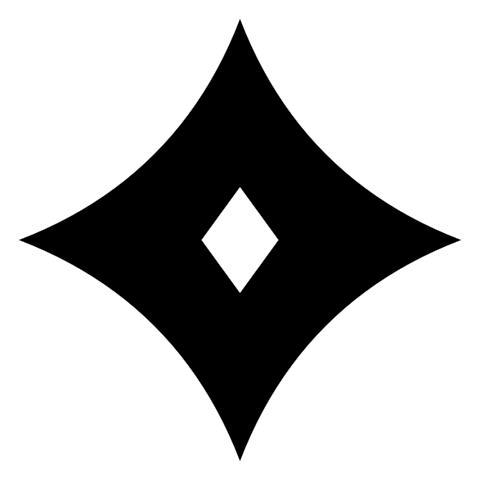
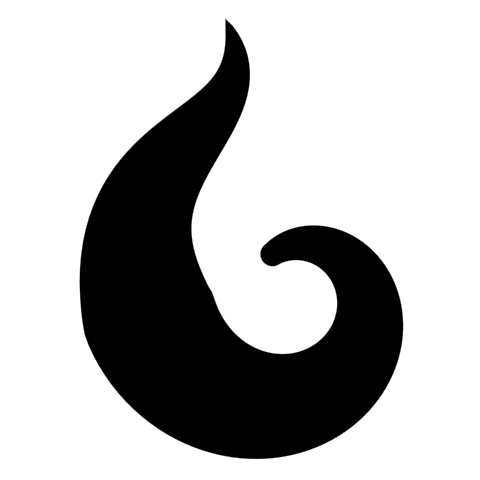
Aura: il vortice e la scia, dal segno di Jalhalla capovolto
Bru, su una foto di Jalhalla (The Wind Waker): «vedi quel logo a spirale
sulla pancia di jalhalla? se capovolto sarebbe perfetto per aura, ma va
perfezionato e fatto simile ai nostri».

L'Aura adesso è un ricciolo con la coda, ridisegnato da capo e non
ricalcato: un tratto solo che si avvolge in basso e sale a punta, come una
fiamma di spirito (lo hitodama giapponese). Le due figure sono il vortice
e la scia.

ricciolo() in IconeStatistiche:
- la linea di mezzo è la coda più una spirale logaritmica. La coda è una
  cubica che arriva nella direzione in cui la spirale parte: senza questo,
  all'attacco restava un gomito;
- lo spessore cresce lungo la coda fino a 28 su 100, poi cala fino a 5;
- il tratto finisce tondo, nel verso delle altre figure.

Le prove fatte:
- con la coda dritta e la punta a destra sembrava un «6»: ora la coda sale
  a S e la punta piega a sinistra, come la cima di una fiamma;
- col rombo dell'emblema nell'occhio: a 16 pixel è un puntino;
- con più giri: da piccola si chiude in un anello.
Resta la prima, la più vicina al segno. Peso -6% dalla media (alla prima
misura era -30%: ingrandita e ingrossata).

La prova delle icone regge come prima: i dieci sabotaggi, aggiornati
all'aura nuova, presi tutti.

Claude-Session: https://claude.ai/code/session_01AE7uzpDH1Lo1PHb29aXJxZ

Changed region(s): [[0.0312, 0.0312, 0.9688, 0.9688], [0.4375, 0.125, 0.4688, 0.1562]]

diff --git a/docs/icone_statistiche.md b/docs/icone_statistiche.md
@@ -16,15 +16,15 @@ i vuoti fra un pezzo e l'altro restano del colore del fondo.
 
 | icona | le due figure | pienezza | dalla media | ingombro (unità) |
 |---|---|---|---|---|
-| Punti vita | il cuore + la cicatrice cucita | 0.320 | +8.5% | da 10.0,16.0 a 90.0,88.0 |
-| Attacco | la spada + il fendente | 0.270 | -8.4% | da 4.0,4.0 a 89.6,91.0 |
-| Difesa | lo scudo + i merli | 0.327 | +10.8% | da 18.0,8.0 a 82.0,94.0 |
-| Velocità | il fulmine + la sua eco | 0.275 | -7.0% | da 16.0,4.0 a 86.0,96.0 |
-| Intelligenza | l'occhio + la serratura | 0.317 | +7.4% | da 4.0,19.0 a 96.0,81.0 |
-| Forza mentale | la lanterna + il fuoco | 0.266 | -9.9% | da 22.0,5.0 a 78.0,90.0 |
-| Fattore | il fuoco + l'emblema | 0.282 | -4.5% | da 24.7,4.0 a 75.3,94.0 |
-| Maestria del dominio | la corona + la barra del dominio | 0.320 | +8.4% | da 8.5,8.0 a 91.5,81.0 |
-| Aura | la scintilla + l'emblema | 0.280 | -5.3% | da 4.0,4.0 a 96.0,96.0 |
+| Punti vita | il cuore + la cicatrice cucita | 0.320 | +8.7% | da 10.0,16.0 a 90.0,88.0 |
+| Attacco | la spada + il fendente | 0.270 | -8.3% | da 4.0,4.0 a 89.6,91.0 |
+| Difesa | lo scudo + i merli | 0.327 | +10.9% | da 18.0,8.0 a 82.0,94.0 |
+| Velocità | il fulmine + la sua eco | 0.275 | -6.9% | da 16.0,4.0 a 86.0,96.0 |
+| Intelligenza | l'occhio + la serratura | 0.317 | +7.5% | da 4.0,19.0 a 96.0,81.0 |
+| Forza mentale | la lanterna + il fuoco | 0.266 | -9.8% | da 22.0,5.0 a 78.0,90.0 |
+| Fattore | il fuoco + l'emblema | 0.282 | -4.4% | da 24.7,4.0 a 75.3,94.0 |
+| Maestria del dominio | la corona + la barra del dominio | 0.320 | +8.5% | da 8.5,8.0 a 91.5,81.0 |
+| Aura | il vortice + la scia | 0.276 | -6.3% | da 16.6,4.0 a 84.0,95.6 |
 
 Media 0.295.
 
@@ -36,4 +36,4 @@ Media 0.295.
 - **Forza mentale** (`forza_mentale`): la lanterna e il fuoco. La fiamma dietro il vetro, che lo stress non spegne.
 - **Fattore** (`fattore`): il fuoco e l'emblema. Nella fiamma, il rombo di Carnivalz: il disallineamento che arde in te.
 - **Maestria del dominio** (`maestria_dominio`): la corona e la barra del dominio. La fascia della corona sono i tre segmenti della barra.
-- **Aura** (`aura`): la scintilla e l'emblema. L'energia che spendi, col rombo di Carnivalz nel cuore.
+- **Aura** (`aura`): il vortice e la scia. L'energia che spendi sale dal vortice come una fiamma di spirito.
